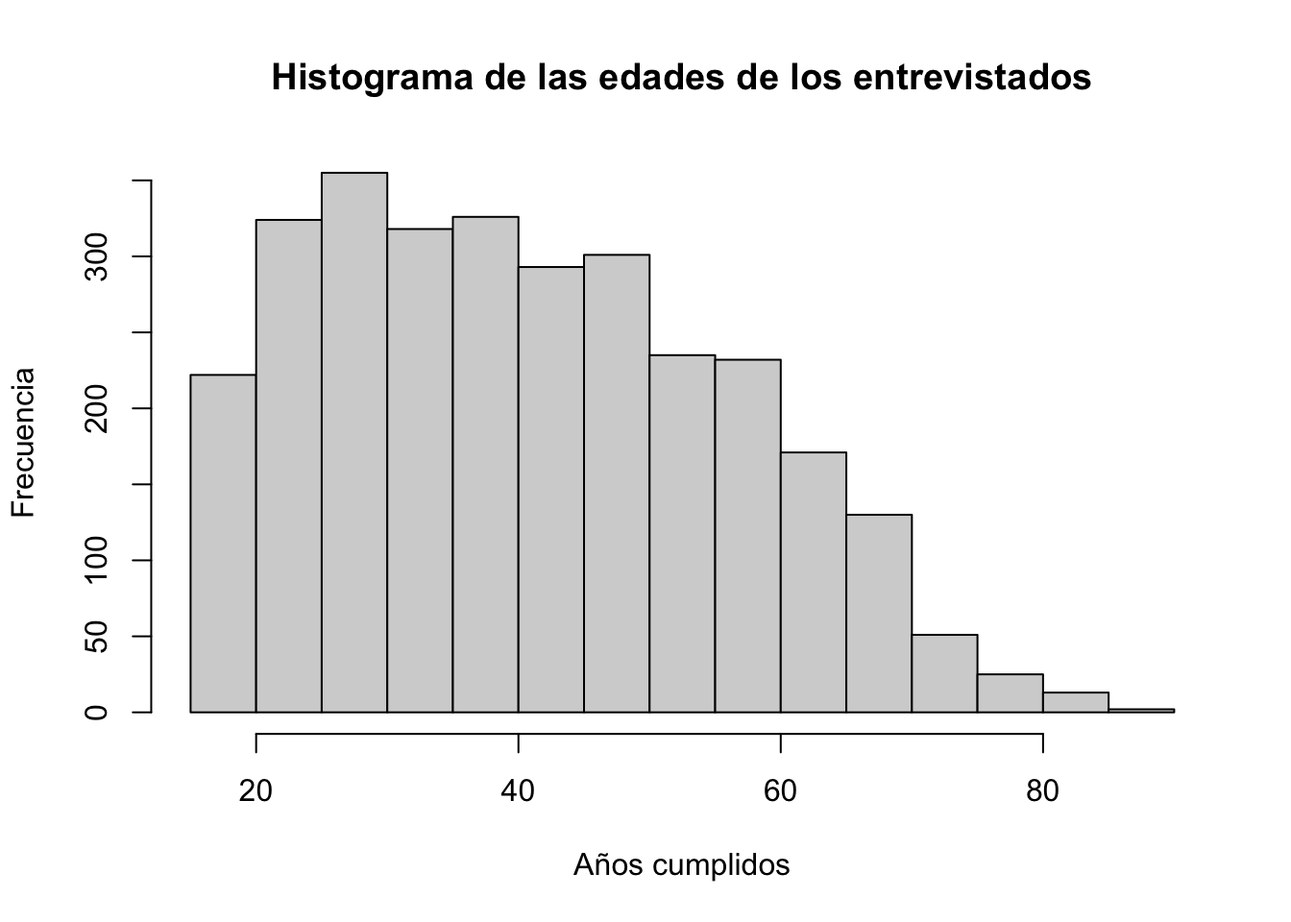
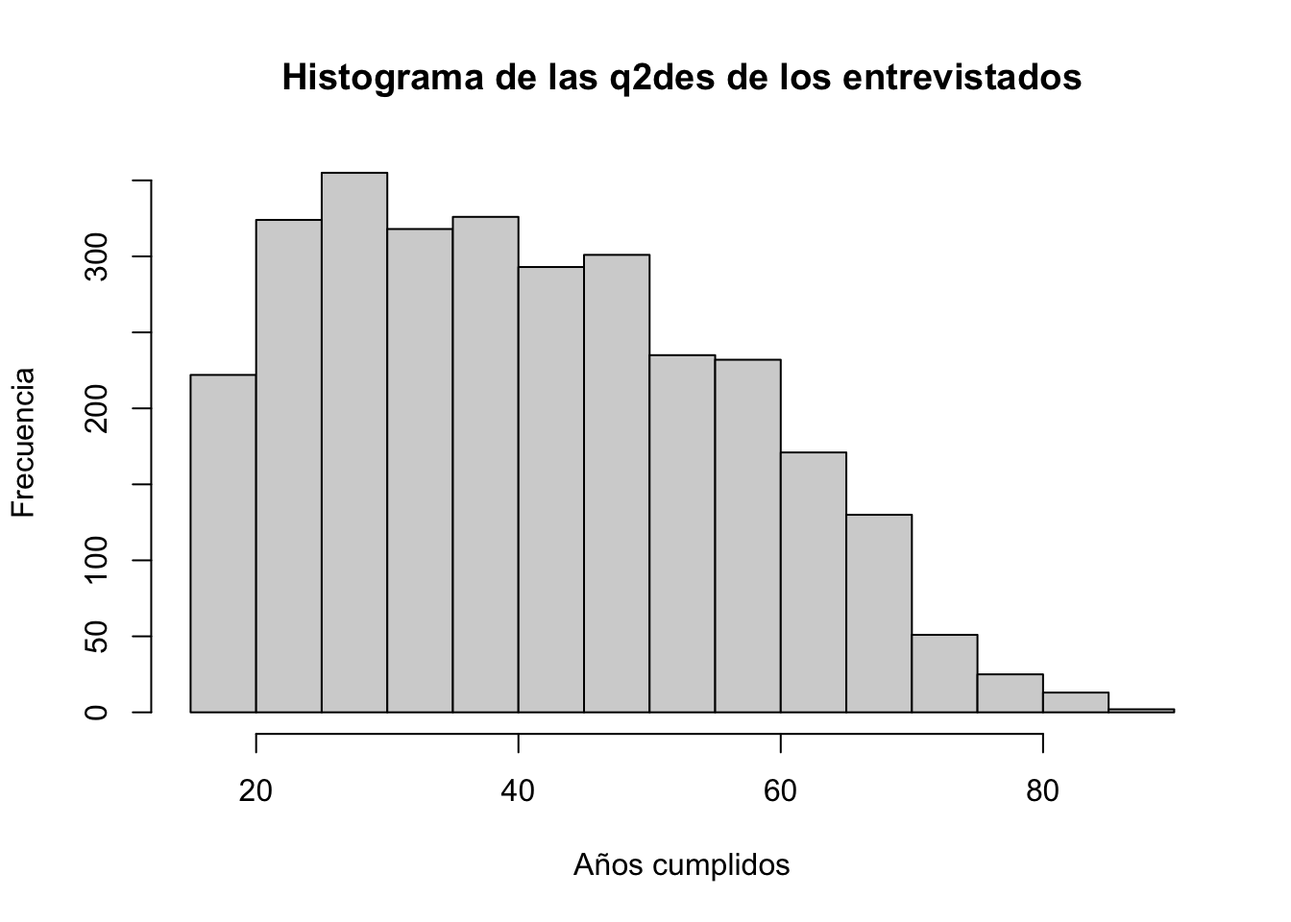
p3 Update

Changed region(s): [[0.1875, 0.0625, 0.8438, 0.125]]

diff --git a/docs/P3.html b/docs/P3.html
@@ -245,9 +245,11 @@ code span.wa { color: #60a0b0; font-weight: bold; font-style: italic; } /* Warni
   <li><a href="#histograma-básico" id="toc-histograma-básico" class="nav-link" data-scroll-target="#histograma-básico">Histograma básico</a></li>
   </ul></li>
   <li><a href="#tabulados-bivariados" id="toc-tabulados-bivariados" class="nav-link" data-scroll-target="#tabulados-bivariados">Tabulados bivariados</a></li>
-  <li><a href="#ojeando" id="toc-ojeando" class="nav-link" data-scroll-target="#ojeando">Ojeando</a>
+  <li><a href="#ojeando" id="toc-ojeando" class="nav-link" data-scroll-target="#ojeando">Ojeando</a></li>
+  <li><a href="#selección-de-casos-y-de-variables" id="toc-selección-de-casos-y-de-variables" class="nav-link" data-scroll-target="#selección-de-casos-y-de-variables">Selección de casos y de variables</a>
   <ul class="collapse">
-  <li><a href="#selección-de-casos-y-de-variables" id="toc-selección-de-casos-y-de-variables" class="nav-link" data-scroll-target="#selección-de-casos-y-de-variables">Selección de casos y de variables</a></li>
+  <li><a href="#select" id="toc-select" class="nav-link" data-scroll-target="#select"><code>{select()}</code></a></li>
+  <li><a href="#filter" id="toc-filter" class="nav-link" data-scroll-target="#filter"><code>{filter()}</code></a></li>
   </ul></li>
   <li><a href="#limpieza-de-nombres" id="toc-limpieza-de-nombres" class="nav-link" data-scroll-target="#limpieza-de-nombres">Limpieza de nombres</a></li>
   <li><a href="#otro-operador" id="toc-otro-operador" class="nav-link" data-scroll-target="#otro-operador">Otro operador</a></li>
@@ -334,7 +336,7 @@ code span.wa { color: #60a0b0; font-weight: bold; font-style: italic; } /* Warni
 <p>Le podemos modificar el título del eje de las x y de las y</p>
 <div class="cell">
 <div class="sourceCode cell-code" id="cb12"><pre class="sourceCode r code-with-copy"><code class="sourceCode r"><span id="cb12-1"><a href="#cb12-1" aria-hidden="true" tabindex="-1"></a><span class="fu">hist</span>(lapop2021<span class="sc">$</span>q2, </span>
-<span id="cb12-2"><a href="#cb12-2" aria-hidden="true" tabindex="-1"></a>     <span class="at">main=</span><span class="st">"Histograma de las edades de los entrevistados"</span>, </span>
+<span id="cb12-2"><a href="#cb12-2" aria-hidden="true" tabindex="-1"></a>     <span class="at">main=</span><span class="st">"Histograma de las q2des de los entrevistados"</span>, </span>
 <span id="cb12-3"><a href="#cb12-3" aria-hidden="true" tabindex="-1"></a>     <span class="at">xlab=</span><span class="st">"Años cumplidos"</span>, <span class="at">ylab=</span><span class="st">"Frecuencia"</span>) </span></code><button title="Copy to Clipboard" class="code-copy-button"><i class="bi"></i></button></pre></div>
 <div class="cell-output-display">
 <p><img src="P3_files/figure-html/unnamed-chunk-6-1.png" class="img-fluid" width="672"></p>
@@ -722,8 +724,9 @@ $chm2bn
 <pre><code>[1] "Edad"</code></pre>
 </div>
 </div>
-<section id="selección-de-casos-y-de-variables" class="level3">
-<h3 class="anchored" data-anchor-id="selección-de-casos-y-de-variables">Selección de casos y de variables</h3>
+</section>
+<section id="selección-de-casos-y-de-variables" class="level2">
+<h2 class="anchored" data-anchor-id="selección-de-casos-y-de-variables">Selección de casos y de variables</h2>
 <p>Poco a poco vamos comprendiendo más la lógica de R. Hay varias “formas” de programar. Por lo que no te asustes si varios códigos llegan al mismo resultado</p>
 <p>Para revisar el contenido de un data frame podemos usar, como lo hicimos anteriormente, el formato basedq2tos$var o usar corchete, checa como estas cuatro formas tan el mismo resultado.</p>
 <div class="cell">
@@ -732,10 +735,138 @@ $chm2bn
 <span id="cb27-3"><a href="#cb27-3" aria-hidden="true" tabindex="-1"></a>x<span class="ot">&lt;-</span>lapop2021[,<span class="dv">13</span>]</span>
 <span id="cb27-4"><a href="#cb27-4" aria-hidden="true" tabindex="-1"></a>x<span class="ot">&lt;-</span>lapop2021[,<span class="st">"q2"</span>]</span></code><button title="Copy to Clipboard" class="code-copy-button"><i class="bi"></i></button></pre></div>
 </div>
+<section id="select" class="level3">
+<h3 class="anchored" data-anchor-id="select"><code>{select()}</code></h3>
 <p>Ahora, con el formato de dplyr podemos llegar a lo mismo</p>
 <div class="cell">
 <div class="sourceCode cell-code" id="cb28"><pre class="sourceCode r code-with-copy"><code class="sourceCode r"><span id="cb28-1"><a href="#cb28-1" aria-hidden="true" tabindex="-1"></a>x<span class="ot">&lt;-</span>lapop2021 <span class="sc">%&gt;%</span> </span>
 <span id="cb28-2"><a href="#cb28-2" aria-hidden="true" tabindex="-1"></a>  <span class="fu">select</span>(q2)</span></code><button title="Copy to Clipboard" class="code-copy-button"><i class="bi"></i></button></pre></div>
+</div>
+</section>
+<section id="filter" class="level3">
+<h3 class="anchored" data-anchor-id="filter"><code>{filter()}</code></h3>
+<p>Los filtros seleccionan <strong>casos</strong> que cumplen con una condición.</p>
+<ul>
+<li><p>Se pueden usar varias condiciones con los operadores <code>&amp;</code> y <code>|</code></p></li>
+<li><p>Se puede negar una condición con el operador <code>!</code></p></li>
+<li><p>El operador <code>%in%</code> o <code>match</code> puede combinarse con vectores como listas de elementos válidos en una variable</p></li>
+</ul>
+<p>Aquí unos ejemplos:</p>
+<div class="cell">
+<div class="sourceCode cell-code" id="cb29"><pre class="sourceCode r code-with-copy"><code class="sourceCode r"><span id="cb29-1"><a href="#cb29-1" aria-hidden="true" tabindex="-1"></a>lapop2021 <span class="sc">%&gt;%</span> </span>
+<span id="cb29-2"><a href="#cb29-2" aria-hidden="true" tabindex="-1"></a>  dplyr<span class="sc">::</span><span class="fu">filter</span>(q2<span class="sc">&gt;</span><span class="dv">14</span>) <span class="co"># cumple con la condición de mayores de 14 años </span></span></code><button title="Copy to Clipboard" class="code-copy-button"><i class="bi"></i></button></pre></div>
+<div class="cell-output cell-output-stdout">
+<pre><code># A tibble: 2,998 × 262
+    idnum     uniq_id pais        year  wave nationality estrato…¹ strata    upm
+    &lt;dbl&gt;       &lt;dbl&gt; &lt;dbl+lbl&gt;  &lt;dbl&gt; &lt;dbl&gt; &lt;dbl+lbl&gt;   &lt;dbl+lbl&gt;  &lt;dbl&gt;  &lt;dbl&gt;
+ 1 151925 21010151925 1 [México]  2021  2021 1 [Mexican… 103 [Cen… 1.00e8 1.04e7
+ 2 231570 21010231570 1 [México]  2021  2021 1 [Mexican… 101 [Nor… 1.00e8 1.01e7
+ 3 155969 21010155969 1 [México]  2021  2021 1 [Mexican… 103 [Cen… 1.00e8 1.02e7
+ 4  69495 21010069495 1 [México]  2021  2021 1 [Mexican… 101 [Nor… 1.00e8 1.02e7
+ 5 387944 21010387944 1 [México]  2021  2021 1 [Mexican… 104 [Sur] 1.00e8 1.03e7
+ 6 179554 21010179554 1 [México]  2021  2021 1 [Mexican… 104 [Sur] 1.00e8 1.01e7
+ 7 256258 21010256258 1 [México]  2021  2021 1 [Mexican… 103 [Cen… 1.00e8 1.02e7
+ 8 243213 21010243213 1 [México]  2021  2021 1 [Mexican… 101 [Nor… 1.00e8 1.01e7
+ 9 350983 21010350983 1 [México]  2021  2021 1 [Mexican… 103 [Cen… 1.00e8 1.04e7
+10 390491 21010390491 1 [México]  2021  2021 1 [Mexican… 101 [Nor… 1.00e8 1.03e7
+# … with 2,988 more rows, 253 more variables: prov1t &lt;dbl+lbl&gt;,
+#   ur1new &lt;dbl+lbl&gt;, q1tb &lt;dbl+lbl&gt;, q2 &lt;dbl&gt;, wt &lt;dbl&gt;, weight1500 &lt;dbl&gt;,
+#   core_a_core_b &lt;chr&gt;, municipio1t &lt;dbl+lbl&gt;, a4 &lt;dbl+lbl&gt;,
+#   covid2at &lt;dbl+lbl&gt;, idio2 &lt;dbl+lbl&gt;, idio2cov &lt;dbl+lbl&gt;, fs2 &lt;dbl+lbl&gt;,
+#   fs2covidn &lt;dbl+lbl&gt;, it1 &lt;dbl+lbl&gt;, jc13 &lt;dbl+lbl&gt;, jc15a &lt;dbl+lbl&gt;,
+#   vic1ext &lt;dbl+lbl&gt;, aoj11 &lt;dbl+lbl&gt;, chm1bn &lt;dbl+lbl&gt;, chm2bn &lt;dbl+lbl&gt;,
+#   cses6n &lt;dbl+lbl&gt;, b0t &lt;dbl+lbl&gt;, b2 &lt;dbl+lbl&gt;, b3 &lt;dbl+lbl&gt;, …</code></pre>
+</div>
+<div class="sourceCode cell-code" id="cb31"><pre class="sourceCode r code-with-copy"><code class="sourceCode r"><span id="cb31-1"><a href="#cb31-1" aria-hidden="true" tabindex="-1"></a>lapop2021 <span class="sc">%&gt;%</span> </span>
+<span id="cb31-2"><a href="#cb31-2" aria-hidden="true" tabindex="-1"></a>  dplyr<span class="sc">::</span><span class="fu">filter</span>(<span class="sc">!</span>q2<span class="sc">&gt;</span><span class="dv">14</span>) <span class="co"># NO cumple con la condición de mayores de 14 años</span></span></code><button title="Copy to Clipboard" class="code-copy-button"><i class="bi"></i></button></pre></div>
+<div class="cell-output cell-output-stdout">
+<pre><code># A tibble: 0 × 262
+# … with 262 variables: idnum &lt;dbl&gt;, uniq_id &lt;dbl&gt;, pais &lt;dbl+lbl&gt;, year &lt;dbl&gt;,
+#   wave &lt;dbl&gt;, nationality &lt;dbl+lbl&gt;, estratopri &lt;dbl+lbl&gt;, strata &lt;dbl&gt;,
+#   upm &lt;dbl&gt;, prov1t &lt;dbl+lbl&gt;, ur1new &lt;dbl+lbl&gt;, q1tb &lt;dbl+lbl&gt;, q2 &lt;dbl&gt;,
+#   wt &lt;dbl&gt;, weight1500 &lt;dbl&gt;, core_a_core_b &lt;chr&gt;, municipio1t &lt;dbl+lbl&gt;,
+#   a4 &lt;dbl+lbl&gt;, covid2at &lt;dbl+lbl&gt;, idio2 &lt;dbl+lbl&gt;, idio2cov &lt;dbl+lbl&gt;,
+#   fs2 &lt;dbl+lbl&gt;, fs2covidn &lt;dbl+lbl&gt;, it1 &lt;dbl+lbl&gt;, jc13 &lt;dbl+lbl&gt;,
+#   jc15a &lt;dbl+lbl&gt;, vic1ext &lt;dbl+lbl&gt;, aoj11 &lt;dbl+lbl&gt;, chm1bn &lt;dbl+lbl&gt;, …</code></pre>
+</div>
+<div class="sourceCode cell-code" id="cb33"><pre class="sourceCode r code-with-copy"><code class="sourceCode r"><span id="cb33-1"><a href="#cb33-1" aria-hidden="true" tabindex="-1"></a>lapop2021 <span class="sc">%&gt;%</span> </span>
+<span id="cb33-2"><a href="#cb33-2" aria-hidden="true" tabindex="-1"></a>  dplyr<span class="sc">::</span><span class="fu">filter</span>(q2<span class="sc">&gt;</span><span class="dv">14</span> <span class="sc">&amp;</span> q1tb<span class="sc">==</span><span class="dv">2</span>) <span class="co"># la condición que sea mujer Y mayor de 14 años</span></span></code><button title="Copy to Clipboard" class="code-copy-button"><i class="bi"></i></button></pre></div>
+<div class="cell-output cell-output-stdout">
+<pre><code># A tibble: 1,436 × 262
+    idnum     uniq_id pais        year  wave nationality estrato…¹ strata    upm
+    &lt;dbl&gt;       &lt;dbl&gt; &lt;dbl+lbl&gt;  &lt;dbl&gt; &lt;dbl&gt; &lt;dbl+lbl&gt;   &lt;dbl+lbl&gt;  &lt;dbl&gt;  &lt;dbl&gt;
+ 1 151925 21010151925 1 [México]  2021  2021 1 [Mexican… 103 [Cen… 1.00e8 1.04e7
+ 2 231570 21010231570 1 [México]  2021  2021 1 [Mexican… 101 [Nor… 1.00e8 1.01e7
+ 3 155969 21010155969 1 [México]  2021  2021 1 [Mexican… 103 [Cen… 1.00e8 1.02e7
+ 4  69495 21010069495 1 [México]  2021  2021 1 [Mexican… 101 [Nor… 1.00e8 1.02e7
+ 5 179554 21010179554 1 [México]  2021  2021 1 [Mexican… 104 [Sur] 1.00e8 1.01e7
+ 6 256258 21010256258 1 [México]  2021  2021 1 [Mexican… 103 [Cen… 1.00e8 1.02e7
+ 7 390491 21010390491 1 [México]  2021  2021 1 [Mexican… 101 [Nor… 1.00e8 1.03e7
+ 8 319311 21010319311 1 [México]  2021  2021 1 [Mexican… 101 [Nor… 1.00e8 1.02e7
+ 9 341803 21010341803 1 [México]  2021  2021 1 [Mexican… 101 [Nor… 1.00e8 1.02e7
+10 343514 21010343514 1 [México]  2021  2021 1 [Mexican… 103 [Cen… 1.00e8 1.02e7
+# … with 1,426 more rows, 253 more variables: prov1t &lt;dbl+lbl&gt;,
+#   ur1new &lt;dbl+lbl&gt;, q1tb &lt;dbl+lbl&gt;, q2 &lt;dbl&gt;, wt &lt;dbl&gt;, weight1500 &lt;dbl&gt;,
+#   core_a_core_b &lt;chr&gt;, municipio1t &lt;dbl+lbl&gt;, a4 &lt;dbl+lbl&gt;,
+#   covid2at &lt;dbl+lbl&gt;, idio2 &lt;dbl+lbl&gt;, idio2cov &lt;dbl+lbl&gt;, fs2 &lt;dbl+lbl&gt;,
+#   fs2covidn &lt;dbl+lbl&gt;, it1 &lt;dbl+lbl&gt;, jc13 &lt;dbl+lbl&gt;, jc15a &lt;dbl+lbl&gt;,
+#   vic1ext &lt;dbl+lbl&gt;, aoj11 &lt;dbl+lbl&gt;, chm1bn &lt;dbl+lbl&gt;, chm2bn &lt;dbl+lbl&gt;,
+#   cses6n &lt;dbl+lbl&gt;, b0t &lt;dbl+lbl&gt;, b2 &lt;dbl+lbl&gt;, b3 &lt;dbl+lbl&gt;, …</code></pre>
+</div>
+<div class="sourceCode cell-code" id="cb35"><pre class="sourceCode r code-with-copy"><code class="sourceCode r"><span id="cb35-1"><a href="#cb35-1" aria-hidden="true" tabindex="-1"></a>lapop2021 <span class="sc">%&gt;%</span> </span>
+<span id="cb35-2"><a href="#cb35-2" aria-hidden="true" tabindex="-1"></a>  dplyr<span class="sc">::</span><span class="fu">filter</span>(q2<span class="sc">&gt;</span><span class="dv">14</span> <span class="sc">|</span> q1tb<span class="sc">==</span><span class="dv">2</span>) <span class="co"># la condición que sea mujer O mayor de 14 años</span></span></code><button title="Copy to Clipboard" class="code-copy-button"><i class="bi"></i></button></pre></div>
+<div class="cell-output cell-output-stdout">
+<pre><code># A tibble: 2,998 × 262
+    idnum     uniq_id pais        year  wave nationality estrato…¹ strata    upm
+    &lt;dbl&gt;       &lt;dbl&gt; &lt;dbl+lbl&gt;  &lt;dbl&gt; &lt;dbl&gt; &lt;dbl+lbl&gt;   &lt;dbl+lbl&gt;  &lt;dbl&gt;  &lt;dbl&gt;
+ 1 151925 21010151925 1 [México]  2021  2021 1 [Mexican… 103 [Cen… 1.00e8 1.04e7
+ 2 231570 21010231570 1 [México]  2021  2021 1 [Mexican… 101 [Nor… 1.00e8 1.01e7
+ 3 155969 21010155969 1 [México]  2021  2021 1 [Mexican… 103 [Cen… 1.00e8 1.02e7
+ 4  69495 21010069495 1 [México]  2021  2021 1 [Mexican… 101 [Nor… 1.00e8 1.02e7
+ 5 387944 21010387944 1 [México]  2021  2021 1 [Mexican… 104 [Sur] 1.00e8 1.03e7
+ 6 179554 21010179554 1 [México]  2021  2021 1 [Mexican… 104 [Sur] 1.00e8 1.01e7
+ 7 256258 21010256258 1 [México]  2021  2021 1 [Mexican… 103 [Cen… 1.00e8 1.02e7
+ 8 243213 21010243213 1 [México]  2021  2021 1 [Mexican… 101 [Nor… 1.00e8 1.01e7
+ 9 350983 21010350983 1 [México]  2021  2021 1 [Mexican… 103 [Cen… 1.00e8 1.04e7
+10 390491 21010390491 1 [México]  2021  2021 1 [Mexican… 101 [Nor… 1.00e8 1.03e7
+# … with 2,988 more rows, 253 more variables: prov1t &lt;dbl+lbl&gt;,
+#   ur1new &lt;dbl+lbl&gt;, q1tb &lt;dbl+lbl&gt;, q2 &lt;dbl&gt;, wt &lt;dbl&gt;, weight1500 &lt;dbl&gt;,
+#   core_a_core_b &lt;chr&gt;, municipio1t &lt;dbl+lbl&gt;, a4 &lt;dbl+lbl&gt;,
+#   covid2at &lt;dbl+lbl&gt;, idio2 &lt;dbl+lbl&gt;, idio2cov &lt;dbl+lbl&gt;, fs2 &lt;dbl+lbl&gt;,
+#   fs2covidn &lt;dbl+lbl&gt;, it1 &lt;dbl+lbl&gt;, jc13 &lt;dbl+lbl&gt;, jc15a &lt;dbl+lbl&gt;,
+#   vic1ext &lt;dbl+lbl&gt;, aoj11 &lt;dbl+lbl&gt;, chm1bn &lt;dbl+lbl&gt;, chm2bn &lt;dbl+lbl&gt;,
+#   cses6n &lt;dbl+lbl&gt;, b0t &lt;dbl+lbl&gt;, b2 &lt;dbl+lbl&gt;, b3 &lt;dbl+lbl&gt;, …</code></pre>
+</div>
+<div class="sourceCode cell-code" id="cb37"><pre class="sourceCode r code-with-copy"><code class="sourceCode r"><span id="cb37-1"><a href="#cb37-1" aria-hidden="true" tabindex="-1"></a><span class="co"># Veracruz - 30</span></span>
+<span id="cb37-2"><a href="#cb37-2" aria-hidden="true" tabindex="-1"></a><span class="co"># Puebla - 21</span></span>
+<span id="cb37-3"><a href="#cb37-3" aria-hidden="true" tabindex="-1"></a><span class="co"># Guanajuato - 11</span></span>
+<span id="cb37-4"><a href="#cb37-4" aria-hidden="true" tabindex="-1"></a><span class="co"># Nuevo León - 19</span></span>
+<span id="cb37-5"><a href="#cb37-5" aria-hidden="true" tabindex="-1"></a></span>
+<span id="cb37-6"><a href="#cb37-6" aria-hidden="true" tabindex="-1"></a></span>
+<span id="cb37-7"><a href="#cb37-7" aria-hidden="true" tabindex="-1"></a>lapop2021 <span class="sc">%&gt;%</span> </span>
+<span id="cb37-8"><a href="#cb37-8" aria-hidden="true" tabindex="-1"></a>  <span class="fu">filter</span>(prov1t<span class="sc">%in%</span><span class="fu">c</span>(<span class="dv">100030</span>, <span class="dv">100021</span>, <span class="dv">100011</span>, <span class="dv">100019</span>))</span></code><button title="Copy to Clipboard" class="code-copy-button"><i class="bi"></i></button></pre></div>
+<div class="cell-output cell-output-stdout">
+<pre><code># A tibble: 535 × 262
+    idnum     uniq_id pais        year  wave nationality estrato…¹ strata    upm
+    &lt;dbl&gt;       &lt;dbl&gt; &lt;dbl+lbl&gt;  &lt;dbl&gt; &lt;dbl&gt; &lt;dbl+lbl&gt;   &lt;dbl+lbl&gt;  &lt;dbl&gt;  &lt;dbl&gt;
+ 1 256258 21010256258 1 [México]  2021  2021 1 [Mexican… 103 [Cen… 1.00e8 1.02e7
+ 2 354018 21010354018 1 [México]  2021  2021 1 [Mexican… 101 [Nor… 1.00e8 1.04e7
+ 3 116914 21010116914 1 [México]  2021  2021 1 [Mexican… 104 [Sur] 1.00e8 1.02e7
+ 4 113564 21010113564 1 [México]  2021  2021 1 [Mexican… 103 [Cen… 1.00e8 1.01e7
+ 5 202687 21010202687 1 [México]  2021  2021 1 [Mexican… 103 [Cen… 1.00e8 1.04e7
+ 6 228184 21010228184 1 [México]  2021  2021 1 [Mexican… 103 [Cen… 1.00e8 1.31e7
+ 7 366379 21010366379 1 [México]  2021  2021 1 [Mexican… 103 [Cen… 1.00e8 1.33e7
+ 8 216732 21010216732 1 [México]  2021  2021 1 [Mexican… 104 [Sur] 1.00e8 1.32e7
+ 9  89347 21010089347 1 [México]  2021  2021 1 [Mexican… 103 [Cen… 1.00e8 1.34e7
+10 115092 21010115092 1 [México]  2021  2021 1 [Mexican… 104 [Sur] 1.00e8 1.32e7
+# … with 525 more rows, 253 more variables: prov1t &lt;dbl+lbl&gt;, ur1new &lt;dbl+lbl&gt;,
+#   q1tb &lt;dbl+lbl&gt;, q2 &lt;dbl&gt;, wt &lt;dbl&gt;, weight1500 &lt;dbl&gt;, core_a_core_b &lt;chr&gt;,
+#   municipio1t &lt;dbl+lbl&gt;, a4 &lt;dbl+lbl&gt;, covid2at &lt;dbl+lbl&gt;, idio2 &lt;dbl+lbl&gt;,
+#   idio2cov &lt;dbl+lbl&gt;, fs2 &lt;dbl+lbl&gt;, fs2covidn &lt;dbl+lbl&gt;, it1 &lt;dbl+lbl&gt;,
+#   jc13 &lt;dbl+lbl&gt;, jc15a &lt;dbl+lbl&gt;, vic1ext &lt;dbl+lbl&gt;, aoj11 &lt;dbl+lbl&gt;,
+#   chm1bn &lt;dbl+lbl&gt;, chm2bn &lt;dbl+lbl&gt;, cses6n &lt;dbl+lbl&gt;, b0t &lt;dbl+lbl&gt;,
+#   b2 &lt;dbl+lbl&gt;, b3 &lt;dbl+lbl&gt;, b4 &lt;dbl+lbl&gt;, b6 &lt;dbl+lbl&gt;, b32 &lt;dbl+lbl&gt;, …</code></pre>
+</div>
 </div>
 </section>
 </section>
@@ -744,8 +875,8 @@ $chm2bn
 <p>A este data.frame podemos limpiarle los nombres, como vemos, sus nombres están “raros”. Esto pasa cuando usamos espacios, caracteres especiales o nombres muy largos.</p>
 <p>Veamos los nombre</p>
 <div class="cell">
-<div class="sourceCode cell-code" id="cb29"><pre class="sourceCode r code-with-copy"><code class="sourceCode r"><span id="cb29-1"><a href="#cb29-1" aria-hidden="true" tabindex="-1"></a>ICE_2022 <span class="sc">%&gt;%</span> </span>
-<span id="cb29-2"><a href="#cb29-2" aria-hidden="true" tabindex="-1"></a>  <span class="fu">names</span>()</span></code><button title="Copy to Clipboard" class="code-copy-button"><i class="bi"></i></button></pre></div>
+<div class="sourceCode cell-code" id="cb39"><pre class="sourceCode r code-with-copy"><code class="sourceCode r"><span id="cb39-1"><a href="#cb39-1" aria-hidden="true" tabindex="-1"></a>ICE_2022 <span class="sc">%&gt;%</span> </span>
+<span id="cb39-2"><a href="#cb39-2" aria-hidden="true" tabindex="-1"></a>  <span class="fu">names</span>()</span></code><button title="Copy to Clipboard" class="code-copy-button"><i class="bi"></i></button></pre></div>
 <div class="cell-output cell-output-stdout">
 <pre><code> [1] "id"                                                                 
  [2] "edo"                                                                
@@ -828,9 +959,9 @@ $chm2bn
 </div>
 <p>los vamos a limpiar:</p>
 <div class="cell">
-<div class="sourceCode cell-code" id="cb31"><pre class="sourceCode r code-with-copy"><code class="sourceCode r"><span id="cb31-1"><a href="#cb31-1" aria-hidden="true" tabindex="-1"></a>ICE_2022 <span class="sc">%&gt;%</span> </span>
-<span id="cb31-2"><a href="#cb31-2" aria-hidden="true" tabindex="-1"></a>  janitor<span class="sc">::</span><span class="fu">clean_names</span>() <span class="sc">%&gt;%</span> </span>
-<span id="cb31-3"><a href="#cb31-3" aria-hidden="true" tabindex="-1"></a>  <span class="fu">names</span>()</span></code><button title="Copy to Clipboard" class="code-copy-button"><i class="bi"></i></button></pre></div>
+<div class="sourceCode cell-code" id="cb41"><pre class="sourceCode r code-with-copy"><code class="sourceCode r"><span id="cb41-1"><a href="#cb41-1" aria-hidden="true" tabindex="-1"></a>ICE_2022 <span class="sc">%&gt;%</span> </span>
+<span id="cb41-2"><a href="#cb41-2" aria-hidden="true" tabindex="-1"></a>  janitor<span class="sc">::</span><span class="fu">clean_names</span>() <span class="sc">%&gt;%</span> </span>
+<span id="cb41-3"><a href="#cb41-3" aria-hidden="true" tabindex="-1"></a>  <span class="fu">names</span>()</span></code><button title="Copy to Clipboard" class="code-copy-button"><i class="bi"></i></button></pre></div>
 <div class="cell-output cell-output-stdout">
 <pre><code> [1] "id"                                                               
  [2] "edo"                                                              
@@ -913,16 +1044,16 @@ $chm2bn
 </div>
 <p>Pero! Tenemos que volver a declarar el objeto con los cambios para que se guarden en el objeto</p>
 <div class="cell">
-<div class="sourceCode cell-code" id="cb33"><pre class="sourceCode r code-with-copy"><code class="sourceCode r"><span id="cb33-1"><a href="#cb33-1" aria-hidden="true" tabindex="-1"></a>ICE_2022<span class="ot">&lt;-</span>ICE_2022 <span class="sc">%&gt;%</span> </span>
-<span id="cb33-2"><a href="#cb33-2" aria-hidden="true" tabindex="-1"></a>  janitor<span class="sc">::</span><span class="fu">clean_names</span>()</span></code><button title="Copy to Clipboard" class="code-copy-button"><i class="bi"></i></button></pre></div>
+<div class="sourceCode cell-code" id="cb43"><pre class="sourceCode r code-with-copy"><code class="sourceCode r"><span id="cb43-1"><a href="#cb43-1" aria-hidden="true" tabindex="-1"></a>ICE_2022<span class="ot">&lt;-</span>ICE_2022 <span class="sc">%&gt;%</span> </span>
+<span id="cb43-2"><a href="#cb43-2" aria-hidden="true" tabindex="-1"></a>  janitor<span class="sc">::</span><span class="fu">clean_names</span>()</span></code><button title="Copy to Clipboard" class="code-copy-button"><i class="bi"></i></button></pre></div>
 </div>
 </section>
 <section id="otro-operador" class="level2">
 <h2 class="anchored" data-anchor-id="otro-operador">Otro operador</h2>
 <p>Esta operación de guardar las acciones del <em>pipe</em> <code>%&gt;%</code> en el mismo objeto del que inician, se puede hacer con otro operador muy parecido <code>%&lt;&gt;%</code></p>
 <div class="cell">
-<div class="sourceCode cell-code" id="cb34"><pre class="sourceCode r code-with-copy"><code class="sourceCode r"><span id="cb34-1"><a href="#cb34-1" aria-hidden="true" tabindex="-1"></a>ICE_2022 <span class="sc">%&lt;&gt;%</span> </span>
-<span id="cb34-2"><a href="#cb34-2" aria-hidden="true" tabindex="-1"></a>  janitor<span class="sc">::</span><span class="fu">clean_names</span>()</span></code><button title="Copy to Clipboard" class="code-copy-button"><i class="bi"></i></button></pre></div>
+<div class="sourceCode cell-code" id="cb44"><pre class="sourceCode r code-with-copy"><code class="sourceCode r"><span id="cb44-1"><a href="#cb44-1" aria-hidden="true" tabindex="-1"></a>ICE_2022 <span class="sc">%&lt;&gt;%</span> </span>
+<span id="cb44-2"><a href="#cb44-2" aria-hidden="true" tabindex="-1"></a>  janitor<span class="sc">::</span><span class="fu">clean_names</span>()</span></code><button title="Copy to Clipboard" class="code-copy-button"><i class="bi"></i></button></pre></div>
 </div>
 <p>¡Llevemos esta base a esquisse!</p>
 

diff --git a/docs/P1.html b/docs/P1.html
@@ -341,26 +341,26 @@ code span.wa { color: #60a0b0; font-weight: bold; font-style: italic; } /* Warni
 <div class="cell">
 <div class="sourceCode cell-code" id="cb26"><pre class="sourceCode r code-with-copy"><code class="sourceCode r"><span id="cb26-1"><a href="#cb26-1" aria-hidden="true" tabindex="-1"></a><span class="fu">sample</span>(<span class="dv">1</span><span class="sc">:</span><span class="dv">19</span>, <span class="at">size=</span><span class="dv">1</span>)</span></code><button title="Copy to Clipboard" class="code-copy-button"><i class="bi"></i></button></pre></div>
 <div class="cell-output cell-output-stdout">
-<pre><code>[1] 6</code></pre>
+<pre><code>[1] 19</code></pre>
 </div>
 <div class="sourceCode cell-code" id="cb28"><pre class="sourceCode r code-with-copy"><code class="sourceCode r"><span id="cb28-1"><a href="#cb28-1" aria-hidden="true" tabindex="-1"></a><span class="fu">sample</span>(<span class="at">x=</span><span class="fu">c</span>(<span class="st">"Erick"</span>, <span class="st">"Emmanuel"</span>, <span class="st">"Scandra"</span>, <span class="st">"Daniela"</span>, <span class="st">"Alberto"</span>),</span>
 <span id="cb28-2"><a href="#cb28-2" aria-hidden="true" tabindex="-1"></a>       <span class="at">size=</span><span class="dv">2</span>)</span></code><button title="Copy to Clipboard" class="code-copy-button"><i class="bi"></i></button></pre></div>
 <div class="cell-output cell-output-stdout">
-<pre><code>[1] "Daniela"  "Emmanuel"</code></pre>
+<pre><code>[1] "Erick"   "Scandra"</code></pre>
 </div>
 <div class="sourceCode cell-code" id="cb30"><pre class="sourceCode r code-with-copy"><code class="sourceCode r"><span id="cb30-1"><a href="#cb30-1" aria-hidden="true" tabindex="-1"></a><span class="fu">sample</span>( <span class="at">x =</span><span class="dv">1</span><span class="sc">:</span><span class="dv">6</span>, </span>
 <span id="cb30-2"><a href="#cb30-2" aria-hidden="true" tabindex="-1"></a>       <span class="at">size =</span> <span class="dv">10</span>,</span>
 <span id="cb30-3"><a href="#cb30-3" aria-hidden="true" tabindex="-1"></a>       <span class="at">replace =</span> T,</span>
 <span id="cb30-4"><a href="#cb30-4" aria-hidden="true" tabindex="-1"></a>       <span class="at">prob=</span> <span class="fu">c</span>(<span class="dv">1</span><span class="sc">/</span><span class="dv">5</span>,<span class="dv">1</span><span class="sc">/</span><span class="dv">5</span>,<span class="dv">1</span><span class="sc">/</span><span class="dv">5</span>, <span class="dv">0</span>, <span class="dv">1</span><span class="sc">/</span><span class="dv">5</span>, <span class="dv">1</span><span class="sc">/</span><span class="dv">5</span>))</span></code><button title="Copy to Clipboard" class="code-copy-button"><i class="bi"></i></button></pre></div>
 <div class="cell-output cell-output-stdout">
-<pre><code> [1] 2 2 1 5 6 2 3 5 2 6</code></pre>
+<pre><code> [1] 2 2 1 2 3 1 1 6 5 1</code></pre>
 </div>
 <div class="sourceCode cell-code" id="cb32"><pre class="sourceCode r code-with-copy"><code class="sourceCode r"><span id="cb32-1"><a href="#cb32-1" aria-hidden="true" tabindex="-1"></a><span class="fu">sample</span>(<span class="at">x =</span> moneda,</span>
 <span id="cb32-2"><a href="#cb32-2" aria-hidden="true" tabindex="-1"></a>       <span class="at">size =</span> <span class="dv">15</span>,</span>
 <span id="cb32-3"><a href="#cb32-3" aria-hidden="true" tabindex="-1"></a>       <span class="at">replace =</span> <span class="cn">TRUE</span>)</span></code><button title="Copy to Clipboard" class="code-copy-button"><i class="bi"></i></button></pre></div>
 <div class="cell-output cell-output-stdout">
-<pre><code> [1] "Aguila" "Sol"    "Sol"    "Sol"    "Aguila" "Aguila" "Aguila" "Sol"   
- [9] "Sol"    "Aguila" "Sol"    "Sol"    "Sol"    "Aguila" "Aguila"</code></pre>
+<pre><code> [1] "Aguila" "Aguila" "Sol"    "Sol"    "Aguila" "Aguila" "Sol"    "Sol"   
+ [9] "Sol"    "Aguila" "Aguila" "Aguila" "Aguila" "Aguila" "Aguila"</code></pre>
 </div>
 </div>
 
